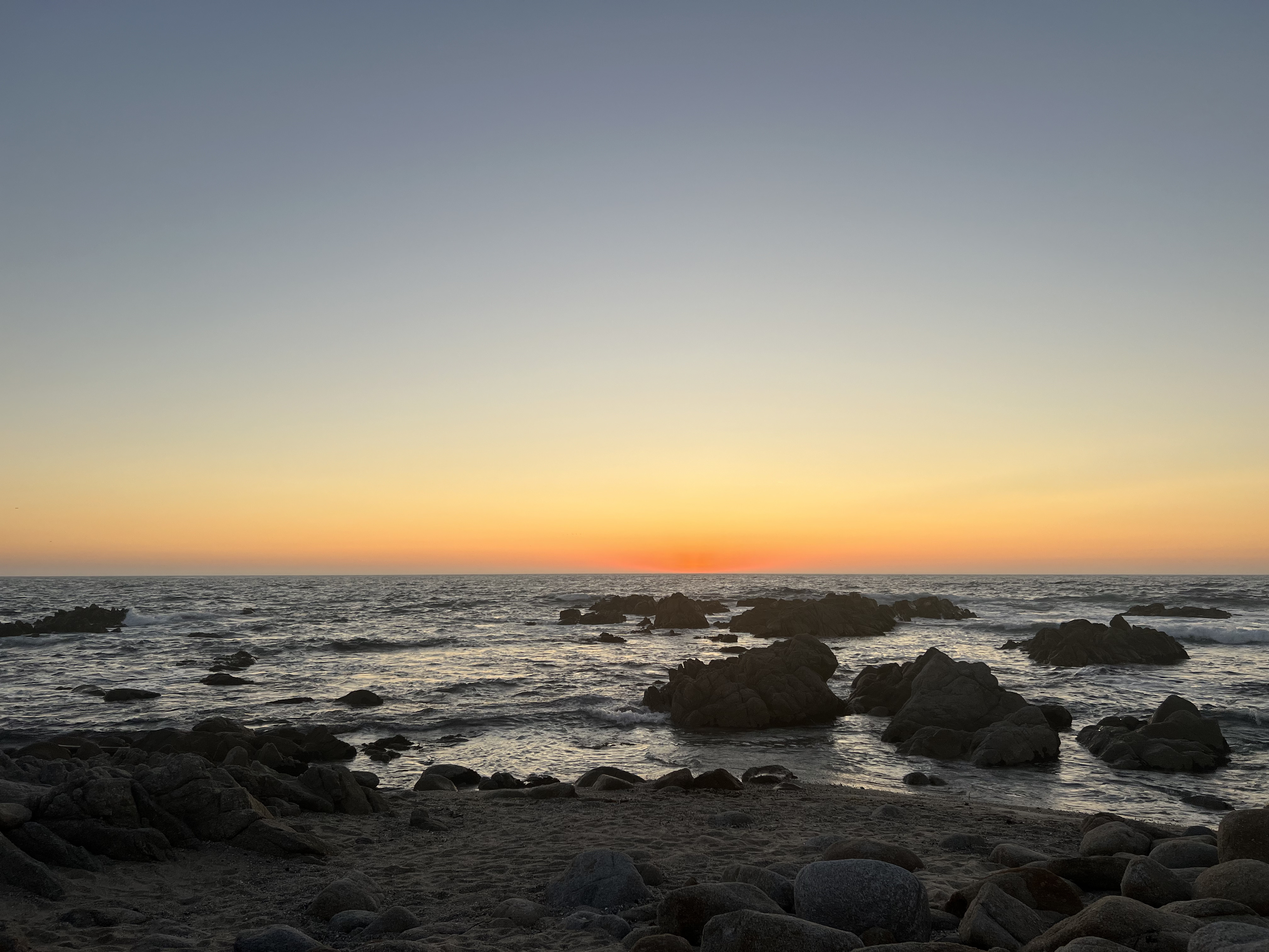
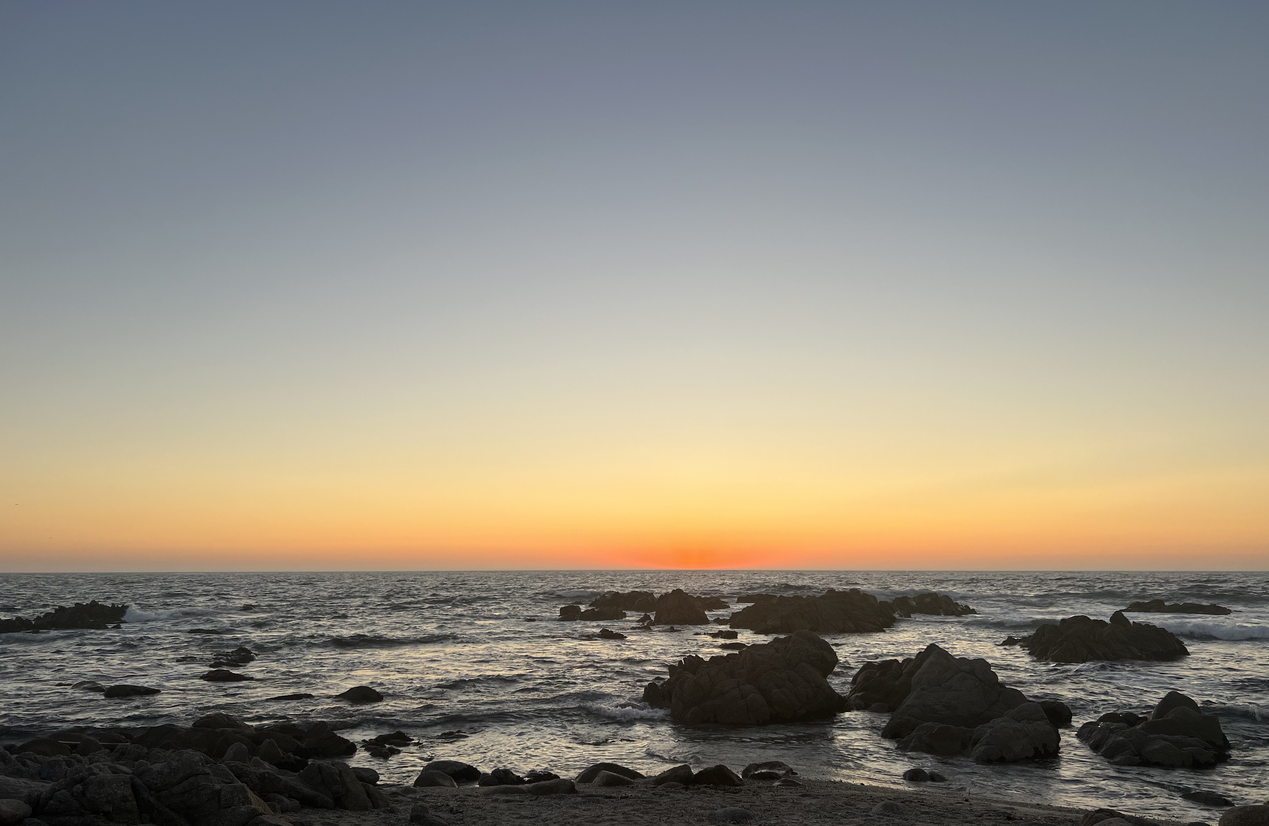
renamed bg file

diff --git a/resources/css/styles.css b/resources/css/styles.css
@@ -3,7 +3,7 @@
 	top: 0;
 	left: 0;
 	right: 0;
-	background-image: url("../img/bg-1.jpg");
+	background-image: url("../img/bg.jpg");
 	height: 100%;
 	background-position: center;
 	background-repeat: no-repeat; 
